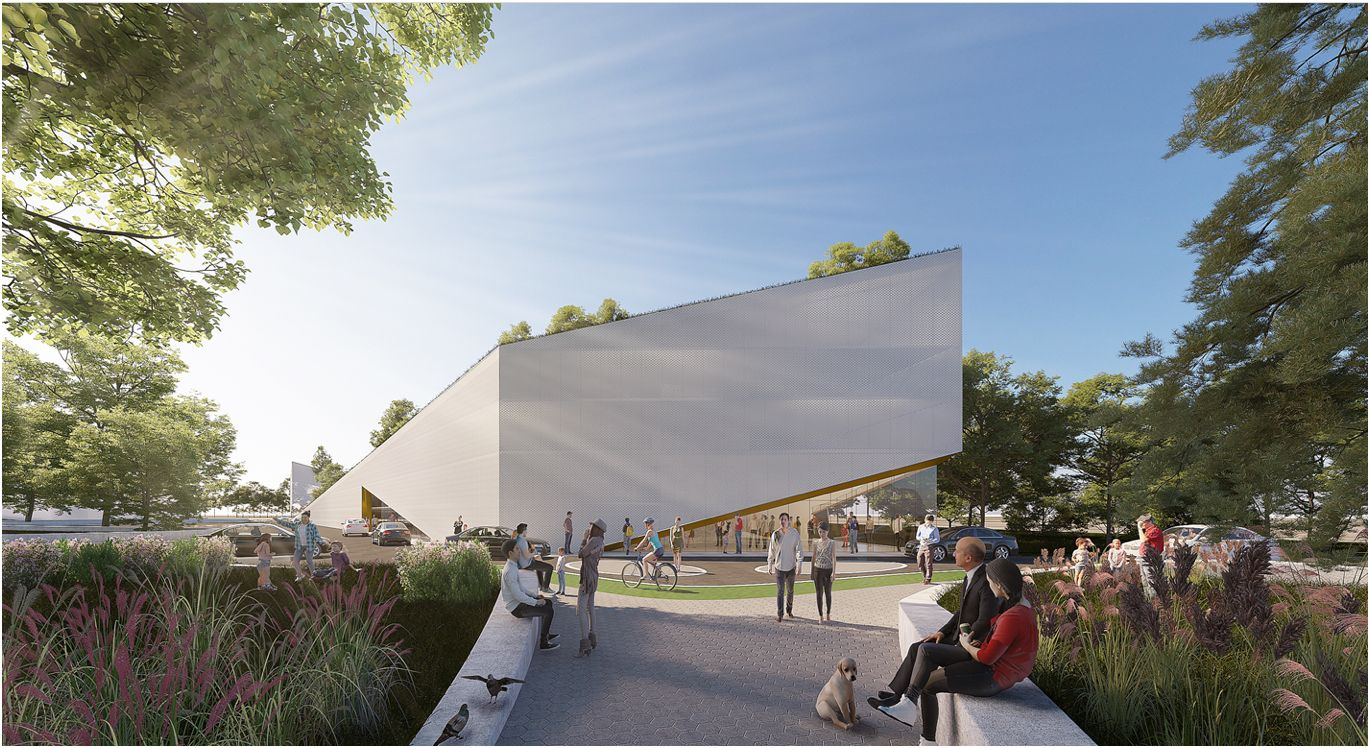
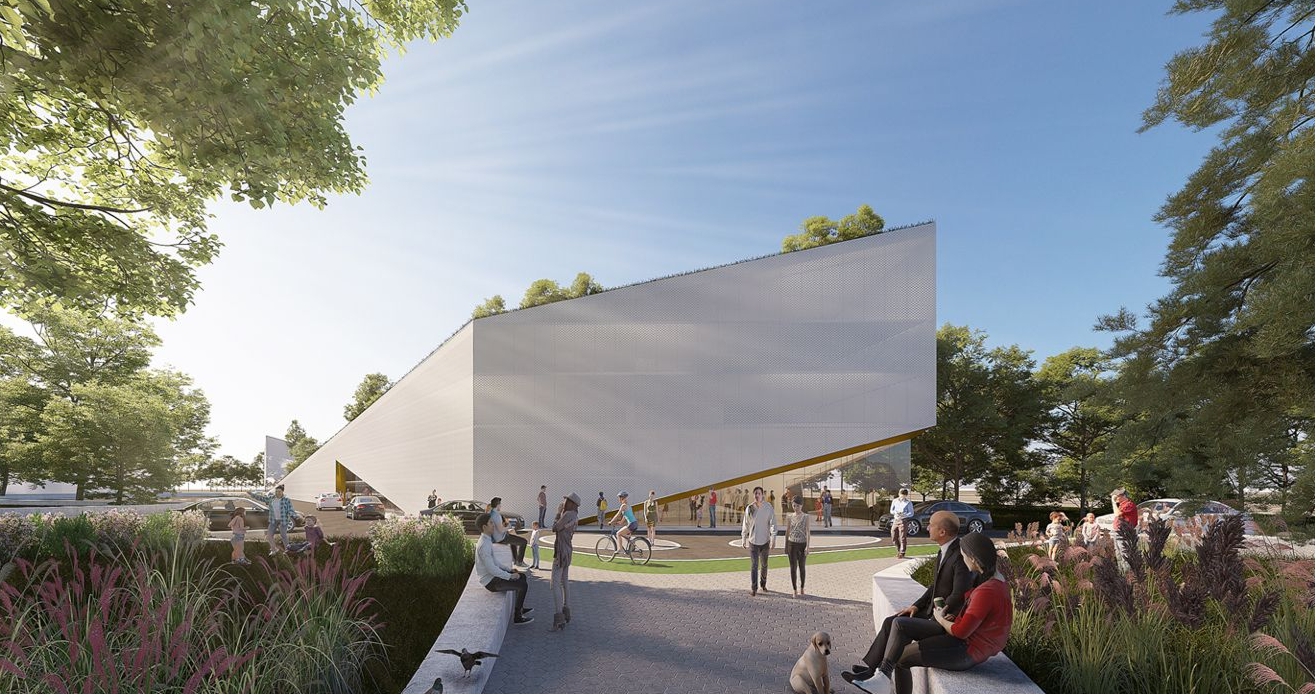
done

diff --git a/src/routes/index.tsx b/src/routes/index.tsx
@@ -9,7 +9,7 @@ const rajBasu = "/raj-basu.png";
 export const Route = createFileRoute("/")({
   head: () => ({
     meta: [
-      { title: "PowerIn Urja |India. Energy Security. National Security." },
+      { title: "PowerIn Urja | India. Energy Security. National Security." },
       {
         name: "description",
         content:
@@ -324,9 +324,11 @@ function Index() {
               <img src={rajBasu} alt="Rajdeep Basu, Founder and Executive Chairman" className="aspect-[4/5] w-full object-cover" />
               <p className="eyebrow mt-6 text-accent">Team</p>
               <h3 className="mt-3 text-2xl">Operators who have delivered.</h3>
-              <p className="mt-3 text-sm leading-relaxed text-muted-foreground">
-                {TEAM.slice(0, 3).map((member) => `${member.name} · ${member.role}`).join(" | ")}
-              </p>
+              <div className="mt-3 space-y-1 text-sm leading-relaxed text-muted-foreground">
+                {TEAM.slice(0, 3).map((member) => (
+                  <div key={member.name}>[{member.name} · {member.role}]</div>
+                ))}
+              </div>
               <Link to="/team" className="mt-6 text-sm font-semibold text-accent hover:underline">
                 View the team →
               </Link>

diff --git a/src/components/site/Footer.tsx b/src/components/site/Footer.tsx
@@ -1,20 +1,19 @@
-const powerinLogo = "/powerin-logo.png";
+const powerinLogo = "/logo-dark.png";
 
 export function Footer() {
   return (
     <footer className="border-t border-border px-6 py-14 md:px-10">
-      <div className="mx-auto grid w-full max-w-7xl gap-8 md:grid-cols-3">
+      <div className="mx-auto grid w-full max-w-7xl items-end gap-8 md:grid-cols-3">
         <div>
           <img src={powerinLogo} alt="PowerIn Urja" className="h-30 w-auto" />
           <p className="mt-1 text-sm text-muted-foreground">New Energy and Semiconductors</p>
         </div>
-        <p className="text-sm leading-relaxed text-muted-foreground">
-        
-        </p>
-        <p className="text-sm text-muted-foreground md:text-right">
+        <p className="text-sm leading-relaxed text-muted-foreground" aria-hidden="true" />
+       
+      </div>
+       <p className="flex items-center justify-center text-center text-sm text-muted-foreground">
           © 2026 PowerIn Urja India Pvt Ltd. All rights reserved.
         </p>
-      </div>
     </footer>
   );
 }
